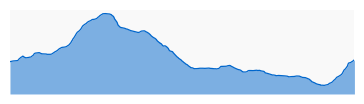
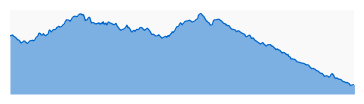
Sync stale segment-boundary coordinates in elevation/coverage scripts
generate_elevation.py and recompute_coverage.py kept their own copies of
SEGMENT_SPLITS that missed the Latigo Canyon Rd / Encinal Canyon Rd
boundary fixes already applied to generate_maps.py. The old Latigo split
sat ~500m too far east, so the elevation chart credited Segment 4 with
mileage from the 2010 run that actually falls in Segment 5 (Castro Crest
area) — while the map, using the corrected boundary, showed no coverage.

Segment 4 miles_covered corrected 1.08 -> 0.03mi, Segment 5 3.13 -> 4.19mi;
maps and elevation charts regenerated to match.

Changed region(s): [[0.0302, 0.1154, 0.9973, 0.8365]]

diff --git a/tools/bbt/generate_elevation.py b/tools/bbt/generate_elevation.py
@@ -45,15 +45,15 @@ BBT_THRESH_M = 50
 EXCLUDED_WAY_IDS = {13340743, 122087883, 204589613, 1216972055}
 
 SEGMENT_SPLITS = [
-    ("Ray Miller TH",        34.0788, -119.0255),
-    ("Danielson Ranch",      34.0753, -118.9200),
-    ("Mishe Mokwa TH",       34.0805, -118.8505),
-    ("Encinal Canyon Rd",    34.0815, -118.8200),
-    ("Latigo Canyon Rd",     34.0820, -118.7910),
+    ("Ray Miller TH",        34.086333, -119.036700),  # west terminus
+    ("Danielson Ranch",      34.125433, -118.994933),  # Danielson Ranch on Big Sycamore Canyon, south end of pavement
+    ("Mishe Mokwa TH",       34.114317, -118.918183),  # Yerba Buena Rd at Mishe Mokwa Trailhead
+    ("Encinal Canyon Rd",    34.085050, -118.861383),  # Trancas Canyon Trail at Encinal Canyon Rd
+    ("Latigo Canyon Rd",     34.077917, -118.793900),  # Newton Canyon Trail at Latigo Canyon Rd
     ("Piuma TH",             34.0799, -118.7037),
     ("Saddle Peak",          34.0819, -118.6441),
     ("Trippet Ranch",        34.0934, -118.5878),
-    ("Will Rogers SHP",      34.0540, -118.5245),
+    ("Will Rogers SHP",      34.0540, -118.5245),  # east terminus
 ]
 
 SEGMENT_SLUGS = [

diff --git a/tools/bbt/recompute_coverage.py b/tools/bbt/recompute_coverage.py
@@ -34,15 +34,15 @@ BBT_THRESH_M = 50
 EXCLUDED_WAY_IDS = {13340743, 122087883, 204589613, 1216972055}
 
 SEGMENT_SPLITS = [
-    ("Ray Miller TH",        34.0788, -119.0255),
-    ("Danielson Ranch",      34.0753, -118.9200),
-    ("Mishe Mokwa TH",       34.0805, -118.8505),
-    ("Encinal Canyon Rd",    34.0815, -118.8200),
-    ("Latigo Canyon Rd",     34.0820, -118.7910),
+    ("Ray Miller TH",        34.086333, -119.036700),  # west terminus
+    ("Danielson Ranch",      34.125433, -118.994933),  # Danielson Ranch on Big Sycamore Canyon, south end of pavement
+    ("Mishe Mokwa TH",       34.114317, -118.918183),  # Yerba Buena Rd at Mishe Mokwa Trailhead
+    ("Encinal Canyon Rd",    34.085050, -118.861383),  # Trancas Canyon Trail at Encinal Canyon Rd
+    ("Latigo Canyon Rd",     34.077917, -118.793900),  # Newton Canyon Trail at Latigo Canyon Rd
     ("Piuma TH",             34.0799, -118.7037),
     ("Saddle Peak",          34.0819, -118.6441),
     ("Trippet Ranch",        34.0934, -118.5878),
-    ("Will Rogers SHP",      34.0540, -118.5245),
+    ("Will Rogers SHP",      34.0540, -118.5245),  # east terminus
 ]
 
 SEGMENT_SLUGS = [

diff --git a/content/report/adhoc/santa-monica-mountains-running.md b/content/report/adhoc/santa-monica-mountains-running.md
@@ -58,7 +58,7 @@ bbt_segments:
 - name: "Segment 4: Encinal Canyon Road to Latigo Canyon Road"
   slug: 04-encinal-to-latigo
   miles_approx: 7.1
-  miles_covered: 1.08
+  miles_covered: 0.03
   touched: true
   complete: false
   notes: 2010 run clipped the eastern edge past Latigo Canyon Rd. Passes through Trancas Canyon with first perennial water on the BBT.
@@ -73,13 +73,13 @@ bbt_segments:
   runs:
   - garmin_id: 21534025
     date: &id001 2010-01-02
-    miles_this_seg: 1.08
-    miles_new: 1.08
-  elev_gain_ft: 211
+    miles_this_seg: 0.03
+    miles_new: 0.03
+  elev_gain_ft: 0
 - name: "Segment 5: Latigo Canyon Road to Piuma TH"
   slug: 05-latigo-to-piuma
   miles_approx: 9.7
-  miles_covered: 3.13
+  miles_covered: 4.19
   touched: true
   complete: false
   notes: 2010 run covered the Piuma-to-Latigo section. Castro Crest area. Total 4.21 mi split across segs 4/5. Passes Newton Canyon and Solstice Canyon watershed.
@@ -94,9 +94,9 @@ bbt_segments:
   runs:
   - garmin_id: 21534025
     date: *id001
-    miles_this_seg: 3.13
-    miles_new: 3.13
-  elev_gain_ft: 621
+    miles_this_seg: 4.19
+    miles_new: 4.19
+  elev_gain_ft: 832
 - name: "Segment 6: Saddle Peak to Piuma TH"
   slug: 06-saddle-peak-to-piuma
   miles_approx: 7.2
